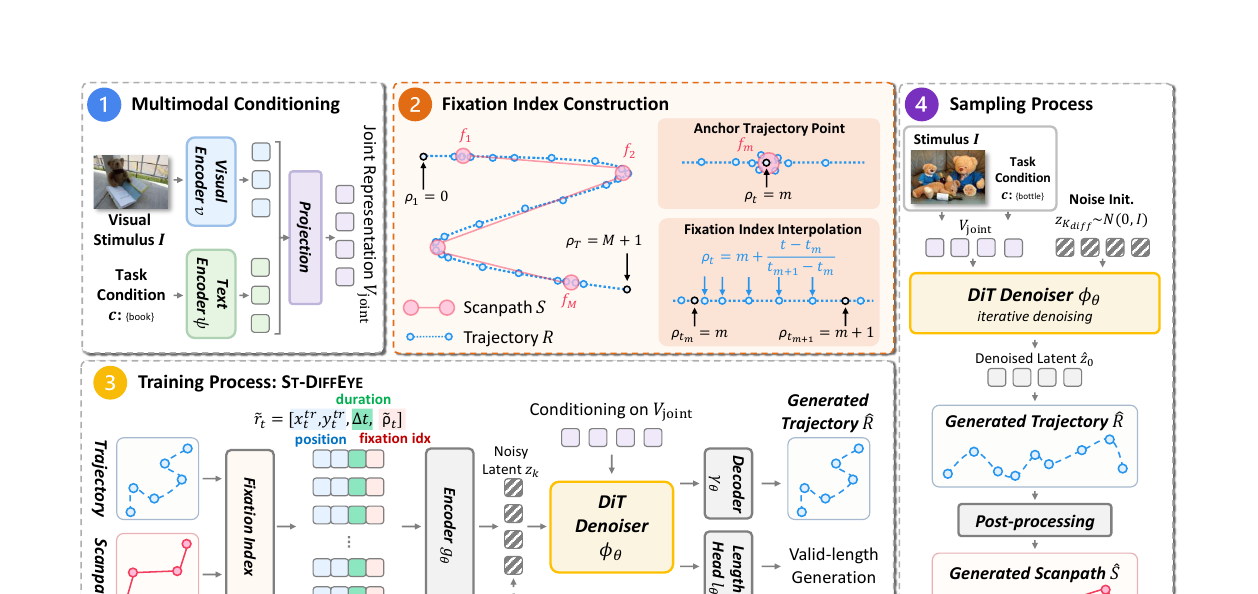
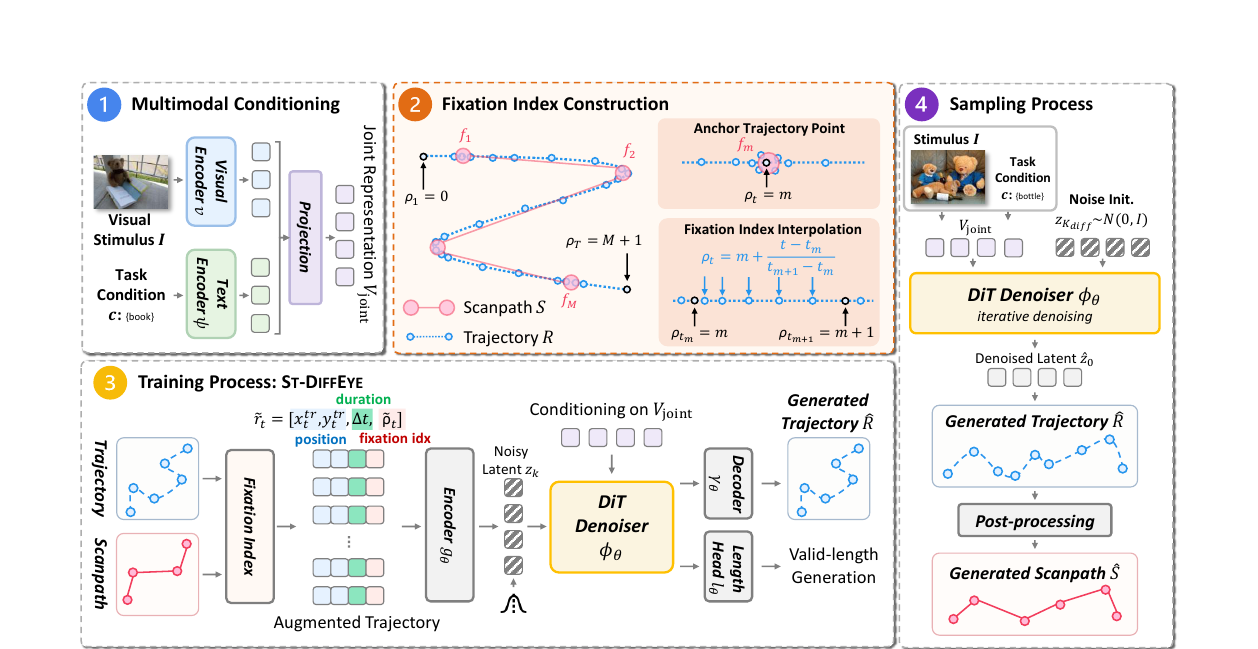
project page

Changed region(s): [[0.062, 0.1212, 0.93, 1.0], [0.868, 0.1212, 0.93, 0.1515]]

diff --git a/index.html b/index.html
@@ -73,14 +73,6 @@
         <a class="button is-dark is-rounded" href="https://arxiv.org/abs/XXXX.XXXXX" target="_blank">
           <span class="icon"><i class="ai ai-arxiv"></i></span><span>arXiv</span>
         </a>
-        <a class="button is-dark is-rounded" href="static/papers/st-diffeye.pdf" target="_blank">
-          <span class="icon"><i class="fas fa-file-pdf"></i></span><span>Paper (PDF)</span>
-        </a>
-        <!-- TODO: replace href with your GitHub repo URL once public -->
-        <a href="https://github.com/RehgLab/st-diffeye" class="button is-dark is-rounded" title="Code" target="_blank">
-          <span class="icon"><i class="fas fa-code"></i></span>
-          <span>Code</span>
-        </a>
       </div>
 
     </div>
